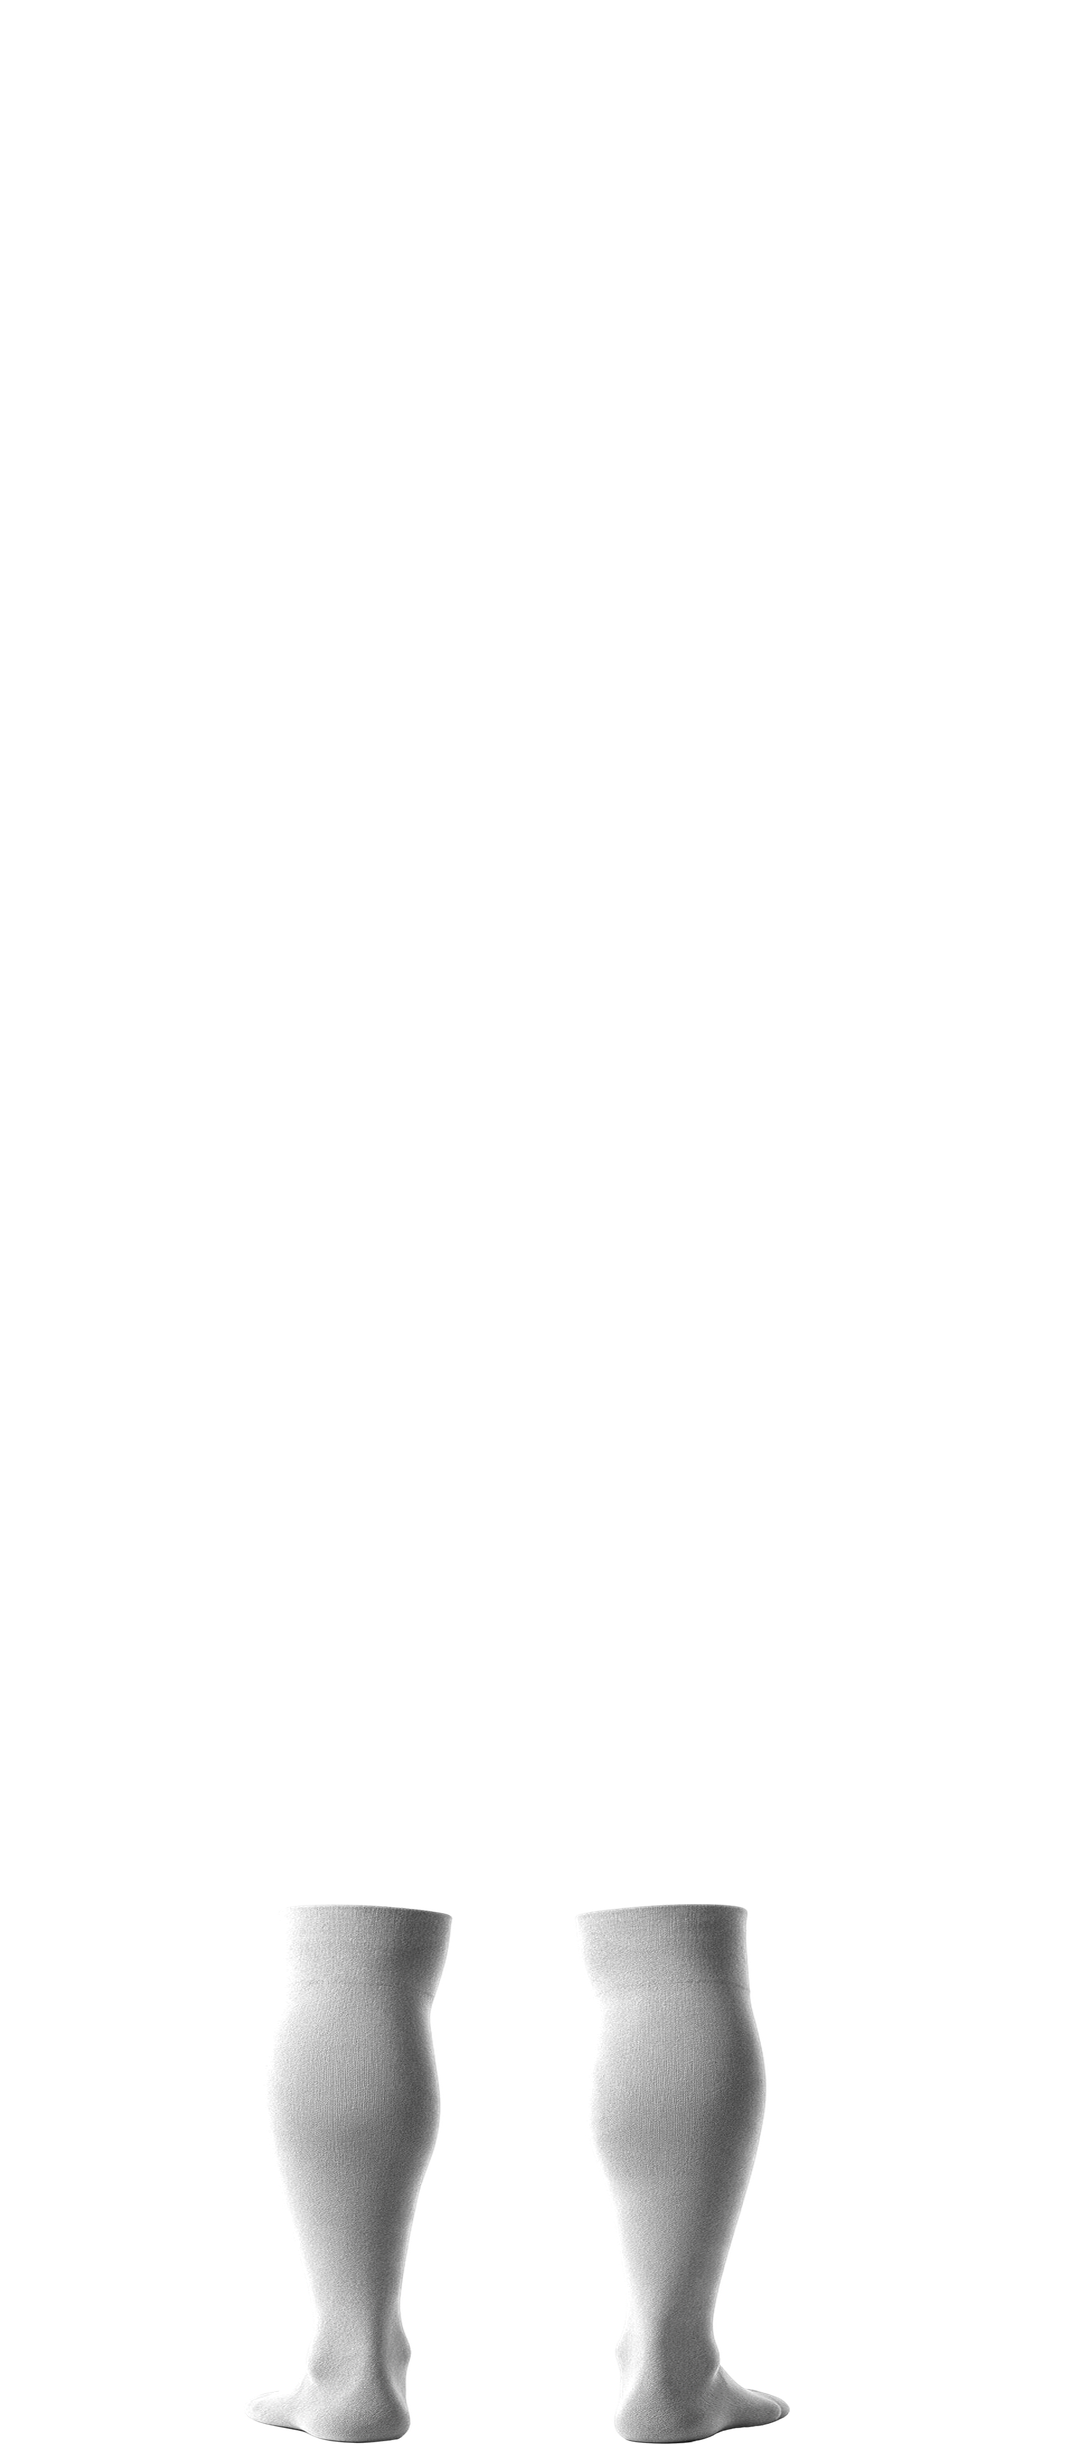
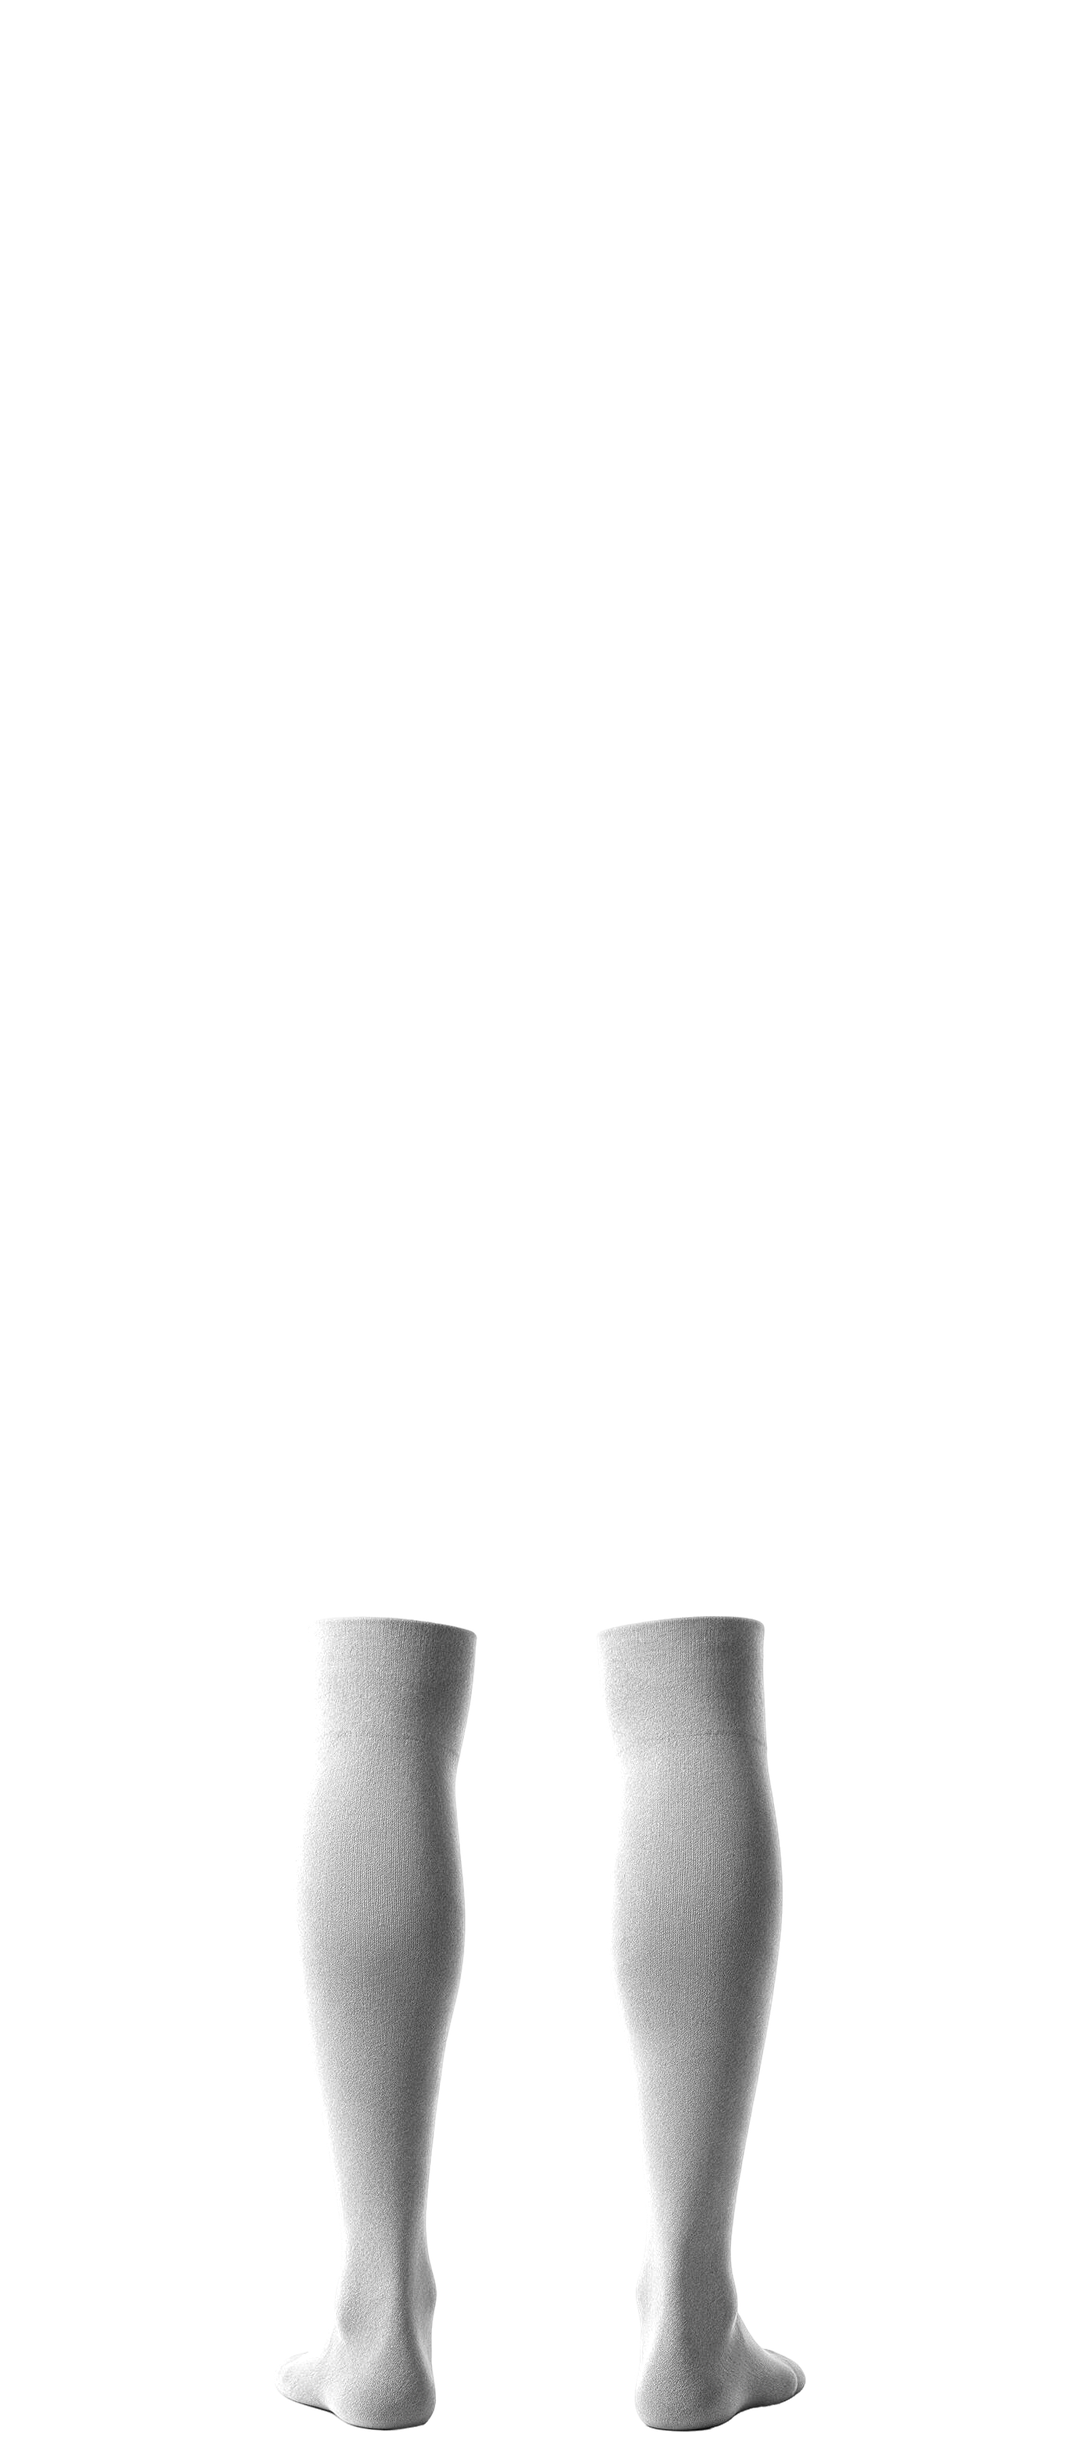
Layout flutuante sem manequim — estética do simulador de referência
O jogador sai de cena a pedido do cliente e com ele desaparece a causa
das deformações: as peças já não são espremidas para vestir um corpo.
O vestir-conjunto.py passa a montar o layout flutuante da referência —
camisola grande, calção abaixo, par de meias em baixo — com escala
UNIFORME por peça (proporções naturais) e as escalas relativas da régua
do concorrente (calção ~75% da largura da camisa, meião ~67%).

Os ficheiros webp da referência continuam fora do produto (material de
concorrente, 240px); só as medidas e o layout deles entram.

Changed region(s): [[0.5194, 0.6488, 0.7639, 1.0], [0.2444, 0.6488, 0.4583, 1.0]]

diff --git a/src/components/kit/KitViewer.tsx b/src/components/kit/KitViewer.tsx
@@ -15,10 +15,10 @@ import { PecaMockup } from './PecaMockup';
 
 /**
  * Visualizador do conjunto: frente e verso lado a lado, com as três peças
- * empilhadas como um equipamento vestido, sobre a foto do jogador.
+ * FLUTUANTES empilhadas ao alto — a estética do simulador de referência,
+ * sem corpo por trás.
  *
- * Setas trocam a estampa da peça; o cadeado prende/solta a peça da
- * sincronização (ver `useKitStore.alvos`).
+ * O cadeado prende/solta a peça da sincronização (ver `useKitStore.alvos`).
  */
 export function KitViewer({ fundo }: { fundo?: string }) {
   return (
@@ -53,49 +53,15 @@ function ConjuntoLado({ lado }: { lado: LadoKit }) {
         {LADO_LABEL[lado]}
       </span>
 
-      {/* As peças vestidas partilham uma tela comum que mapeia a coluna
-          inteira (ver scripts/vestir-conjunto.py): o encaixe no jogador é
-          cosido nos próprios PNG, por isso os slots são todos idênticos e
-          não há margens mágicas aqui. */}
+      {/* As peças partilham uma tela comum que mapeia a coluna inteira
+          (ver scripts/vestir-conjunto.py): o layout está cosido nos PNG,
+          por isso os slots são todos idênticos, sem margens mágicas. */}
       <div className="relative h-[615px] w-[270px]">
-        <Manequim lado={lado} />
         <PecaSlot peca="camisola" lado={lado} className="absolute inset-0 z-30" />
         <PecaSlot peca="calcao" lado={lado} className="absolute inset-0 z-20" />
         <PecaSlot peca="meiao" lado={lado} className="absolute inset-0 z-10" />
       </div>
     </div>
-  );
-}
-
-/**
- * Jogador-modelo por trás do conjunto (gerado por IA e recortado).
- *
- * O wrapper mapeia a coluna inteira (cabeça a chão); o jogador ocupa-a
- * de alto a baixo. As peças são cosidas sobre os marcos DELE pelo
- * scripts/vestir-conjunto.py — se o jogador mudar, correr o script de novo.
- */
-function Manequim({ lado }: { lado: LadoKit }) {
-  return (
-    <>
-      <img
-        src={`/moldes/jogador-${lado}.png`}
-        alt=""
-        aria-hidden
-        className={cn(
-          'pointer-events-none absolute top-0 left-1/2 z-0 h-[612px] max-w-none',
-          // o jogador gerado é mais encorpado que as peças; o aperto
-          // horizontal esconde o tronco. Valores medidos no canal alfa.
-          lado === 'frente'
-            ? '-translate-x-[calc(50%-2px)] scale-x-[0.86]'
-            : '-translate-x-[calc(50%-3px)] scale-x-[0.84]',
-        )}
-      />
-      {/* sombra no chão, já que a do estúdio foi recortada com o fundo */}
-      <div
-        aria-hidden
-        className="pointer-events-none absolute left-1/2 top-[600px] z-0 h-[16px] w-[190px] -translate-x-1/2 rounded-[50%] bg-black/15 blur-[6px]"
-      />
-    </>
   );
 }
 

diff --git a/src/lib/kitReal.ts b/src/lib/kitReal.ts
@@ -19,8 +19,8 @@ import { CAMADAS, COR_FUNDO, QUADRO } from './estampas/milanDados';
     a GOLA (senão o tema sobe pelo pescoço e parece gola alta; a gola fica
     com a cor base). */
 const CAIXA_CORPO: Record<LadoKit, { x: number; y: number; w: number; h: number }> = {
-  frente: { x: 317, y: 447, w: 419, h: 865 },
-  verso: { x: 312, y: 447, w: 436, h: 865 },
+  frente: { x: 321, y: 126, w: 437, h: 872 },
+  verso: { x: 317, y: 128, w: 450, h: 896 },
 };
 
 function noLado(svg: string, lado: LadoKit): string {

diff --git a/scripts/vestir-conjunto.py b/scripts/vestir-conjunto.py
@@ -1,17 +1,17 @@
 """
-"Veste" as peças geradas no jogador-modelo: cada PNG de peça é escalado
-(anisotropicamente, dentro do razoável) e posicionado sobre os marcos do
-corpo do jogador, e gravado numa TELA COMUM que mapeia a coluna inteira
-do visualizador. Assim todos os slots do KitViewer são idênticos
-(absolute inset-0) e o alinhamento vive aqui, medível e repetível —
-não em margens de CSS afinadas à mão.
+Monta o conjunto FLUTUANTE (estética do simulador de referência): as peças
+não vestem um corpo — ficam empilhadas ao alto, camisola grande, calção
+abaixo, par de meias em baixo, cada uma nas suas proporções NATURAIS
+(escala uniforme, zero distorção).
 
-Tela comum: 1080×2460 = região do wrapper x 0..270, y -40..575 (escala 4).
+As escalas relativas entre as peças seguem a régua da referência
+(calção ~75% da largura da camisa, meião ~67%); os assets são nossos.
+Tudo é gravado numa tela comum que mapeia a coluna inteira do visualizador,
+por isso os slots do KitViewer são todos idênticos (absolute inset-0).
+
+Tela comum: 1080×2460 = wrapper 270×615 (escala 4).
 
     python3 scripts/vestir-conjunto.py <pasta com c-{peca}-{lado}.png>
-
-Os alvos (em coordenadas do wrapper) vêm do canal alfa do jogador —
-ver as medições em conversa; se o jogador mudar, medir de novo e ajustar.
 """
 import os
 import sys
@@ -19,90 +19,51 @@ import sys
 import numpy as np
 from PIL import Image, ImageEnhance
 
-M = 4                       # wrapper px -> canvas px
-W, H = 270 * M, 615 * M     # 1080 × 2460
-DY = 40                     # wrapper y -40 -> canvas y 0
+M = 4
+W, H = 270 * M, 615 * M
 
-# Alvos por peça: onde a peça assenta no jogador (wrapper coords).
-# As PROPORÇÕES entre peças seguem a régua do simulador de referência
-# (calção ≈ 75% da largura da camisa, meião ≈ 67%, camisa curta a acabar
-# na cintura, calção bem visível) — só as proporções; os assets são nossos.
+# layout flutuante (wrapper coords): topo da peça + largura alvo
 ALVOS = {
-    # camisola: gola na base do pescoço, bainha na cintura; largura = vão
-    # das mangas, pouco além dos braços do jogador (162)
-    'camisola': dict(topo=48, base=288, largura=188, linha_largura=0.30),
-    # calção: cós escondido sob a bainha, termina bem acima do joelho;
-    # largura na linha mais larga (a bainha evasê)
-    'calcao': dict(topo=282, base=398, largura=132, linha_largura=0.60),
-    # meião: topo abaixo do joelho, pé no chão; a escala e posição
-    # horizontais vêm dos CENTROS DOS PÉS do jogador (ver PES)
-    'meiao': dict(topo=436, base=571, largura=120, linha_largura=0.95),
+    'camisola': dict(topo=10, largura=216, base=256),
+    'calcao': dict(topo=262, largura=162, base=396),
+    'meiao': dict(topo=404, largura=145, base=608),
 }
-
-# centros dos pés do jogador, medidos no alfa (wrapper coords, por lado)
-PES = {'frente': (87.6, 173.8), 'verso': (83.6, 173.5)}
-
-# desvio horizontal do jogador em relação ao centro 135 (por lado)
-DESVIO = {'frente': -3, 'verso': -5}
 
 
 def instalar(origem, peca, lado):
     im = Image.open(origem).convert('RGBA')
     im = im.crop(im.getchannel('A').getbbox())
 
-    # neutralizar: o alfa recorta, os cinzas dão o sombreado (multiply)
+    # neutralizar: o alfa recorta, os cinzas dão o sombreado (multiply);
+    # claro q.b. para um branco escolhido pelo cliente sair branco
     r, g, b, a = im.split()
-    # clarear bem: estes cinzas entram em multiply sobre a cor escolhida —
-    # se o tecido ficar a ~200, um branco escolhido pelo cliente sai cinzento
     rgb = ImageEnhance.Color(Image.merge('RGB', (r, g, b))).enhance(0.0)
     rgb = ImageEnhance.Brightness(rgb).enhance(1.30)
     im = Image.merge('RGBA', (*rgb.split(), a))
 
     alvo = ALVOS[peca]
-
-    # largura da peça na linha de referência (ex.: cós do calção)
-    arr = np.array(im.getchannel('A'))
-    py = int((arr.shape[0] - 1) * alvo['linha_largura'])
-    xs = np.where(arr[py] > 60)[0]
-    larg_ref = xs.max() - xs.min()
-
-    esc_y = (alvo['base'] - alvo['topo']) * M / im.height
-    esc_x = alvo['largura'] * M / larg_ref
-    im = im.resize((int(im.width * esc_x), int(im.height * esc_y)), Image.LANCZOS)
-
-    if peca == 'meiao':
-        # ancorar pelos pés: medir os centros dos dois pés no PNG já
-        # escalado e casá-los com os pés do jogador
-        arr2 = np.array(im.getchannel('A'))
-        linha = arr2[int(arr2.shape[0] * 0.96)]
-        xs2 = np.where(linha > 60)[0]
-        grupos = np.split(xs2, np.where(np.diff(xs2) > 20)[0] + 1)
-        grupos = sorted(sorted(grupos, key=len, reverse=True)[:2], key=lambda g: g[0])
-        c_esq = (grupos[0][0] + grupos[0][-1]) / 2
-        c_dir = (grupos[1][0] + grupos[1][-1]) / 2
-        alvo_esq, alvo_dir = (p * M for p in PES[lado])
-        fator = (alvo_dir - alvo_esq) / (c_dir - c_esq)
-        im = im.resize((int(im.width * fator), im.height), Image.LANCZOS)
-        x0 = int(alvo_esq - c_esq * fator)
-    else:
-        x0 = int((135 + DESVIO[lado]) * M - im.width / 2)
+    # escala UNIFORME (sem distorção), limitada pela largura E pela altura
+    esc = min(alvo['largura'] * M / im.width,
+              (alvo['base'] - alvo['topo']) * M / im.height)
+    im = im.resize((int(im.width * esc), int(im.height * esc)), Image.LANCZOS)
 
     tela = Image.new('RGBA', (W, H), (0, 0, 0, 0))
-    y0 = int((alvo['topo'] + DY) * M)
+    x0 = int(135 * M - im.width / 2)
+    y0 = int(alvo['topo'] * M)
     tela.alpha_composite(im, (x0, y0))
     tela.save(f'public/moldes/vestida-{peca}-{lado}.png')
+    print(f'{peca}-{lado}: canvas ({x0},{y0})..({x0 + im.width},{y0 + im.height})'
+          f'  [{im.width / M:.0f}×{im.height / M:.0f} wrapper]')
 
-    print(f'{peca}-{lado}: esc_x {esc_x:.2f} esc_y {esc_y:.2f} '
-          f'→ canvas ({x0},{y0})..({x0 + im.width},{y0 + im.height})')
-
-    # caixa do tronco (para a estampa da camisola): linha a 60% sem mangas
+    # caixa do tronco p/ a estampa (sem gola nem mangas): linha a 60%,
+    # gola excluída pelos primeiros 9% da altura
     if peca == 'camisola':
-        arr2 = np.array(tela.getchannel('A'))
-        py2 = y0 + int(im.height * 0.60)
-        xs2 = np.where(arr2[py2] > 60)[0]
-        print(f'   tronco a 60%: x {xs2.min()}..{xs2.max()}  '
-              f'(caixa p/ estampa: x={xs2.min()}, y={y0}, '
-              f'w={xs2.max() - xs2.min()}, h={im.height})')
+        arr = np.array(tela.getchannel('A'))
+        py = y0 + int(im.height * 0.60)
+        xs = np.where(arr[py] > 60)[0]
+        cy = y0 + int(im.height * 0.09)
+        print(f'   caixa estampa: x={xs.min()}, y={cy}, '
+              f'w={xs.max() - xs.min()}, h={y0 + im.height - cy}')
 
 
 if __name__ == '__main__':
